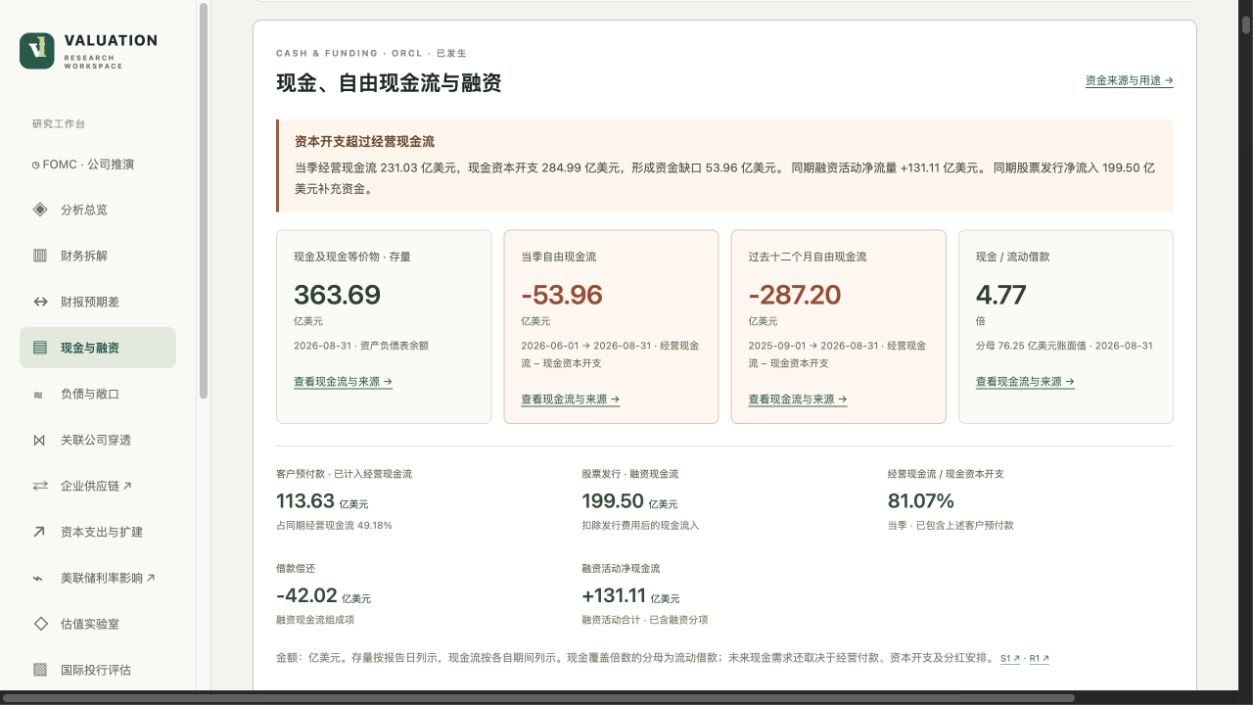
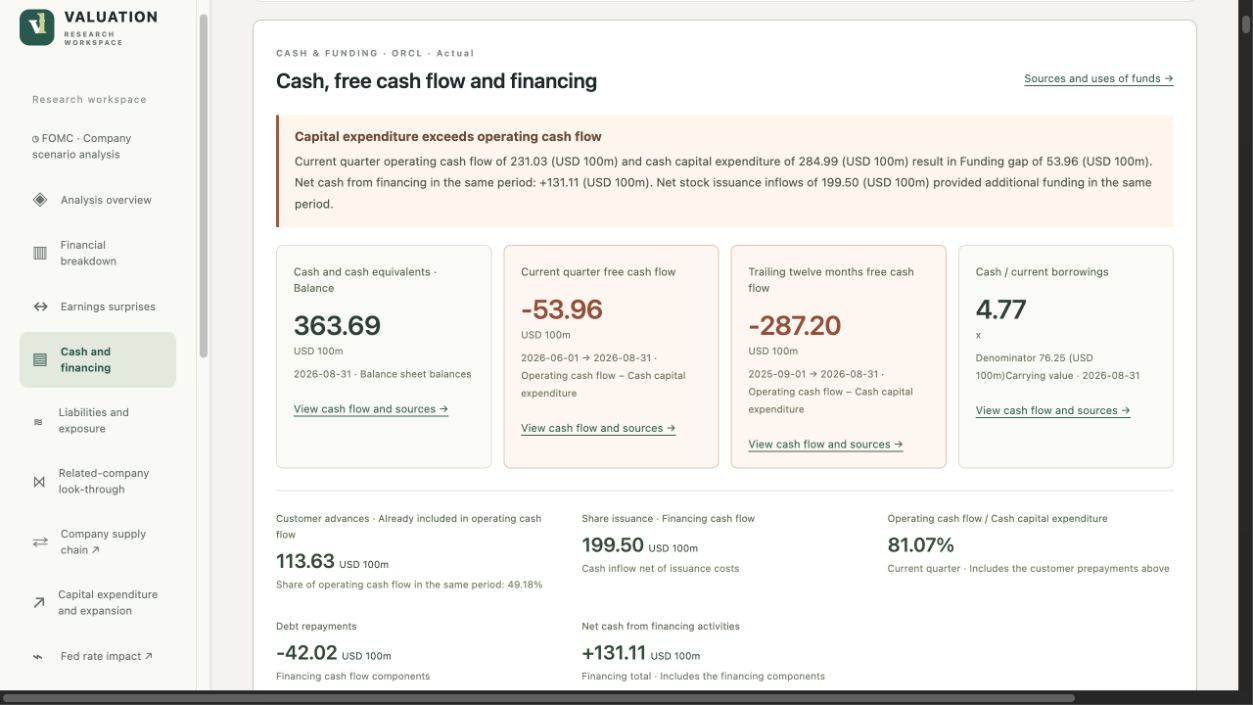
Use English product screenshots

diff --git a/assets/screenshots/README.md b/assets/screenshots/README.md
@@ -9,6 +9,6 @@ Selected views from the working Valuation Lab prototype:
 | [AI report](ai-report.jpg) | Oracle assessment overview and nine-chapter report structure. |
 | [Revenue forecast](revenue-forecast.jpg) | Top-down and bottom-up forecasts, their combined estimate, and management guidance from the saved 10 November 2026 assessment. |
 
-The figures retain the reporting and scenario context shown in each image. The screenshots show the Chinese interface; the application also supports English.
+The figures retain the reporting and scenario context shown in each image. All screenshots show the English interface; the application also supports Chinese.
 
 [Product overview](../../README.md) · [AI research methodology](../../docs/ai-research.md)
